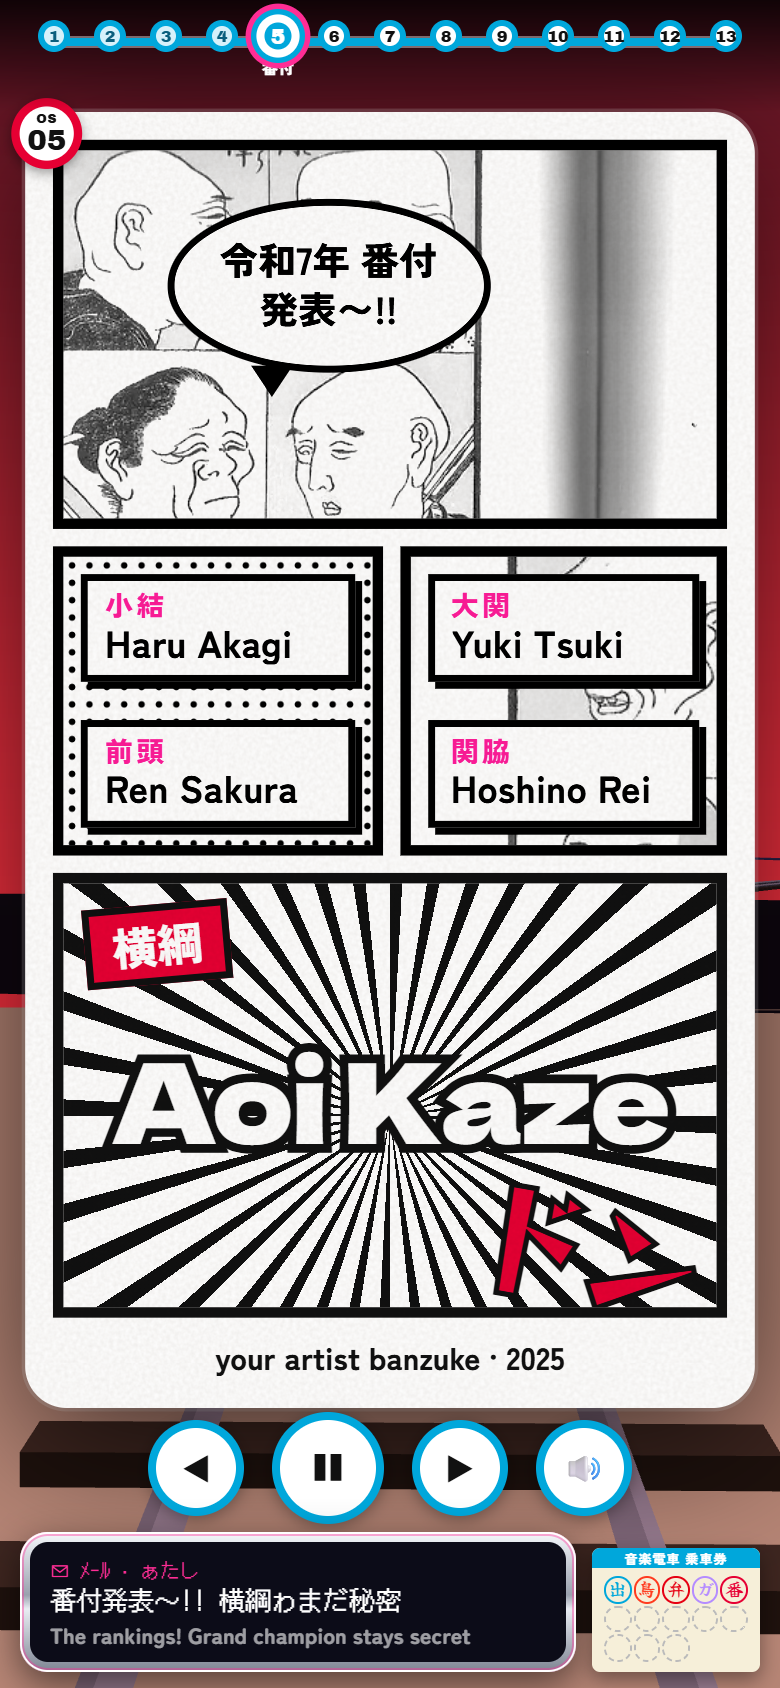
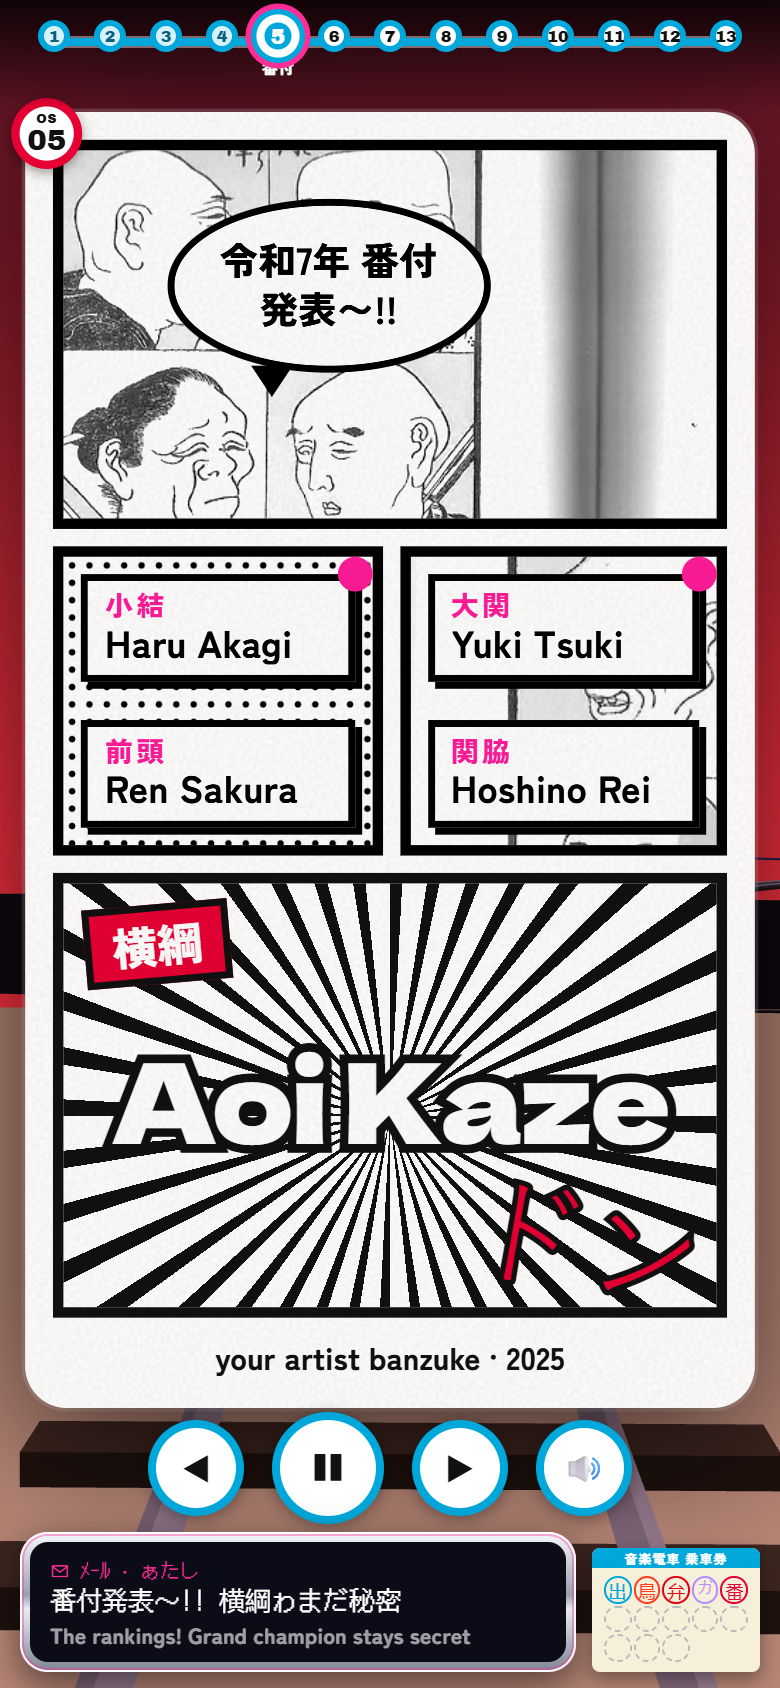
fix: polish from the touch review
- touch dots: Torii's number and Fuji's svg no longer hide theirs (off-card / inside an svg), Oshi's clears the card corner
- counted numbers keep a touch dot appended to them (setCount)
- scripts/probes/touch.js (sizes, controls overlap, dots, reduced motion) and songs.js; all 13 stations reshot

diff --git a/scripts/probes/touch.js b/scripts/probes/touch.js
@@ -1,0 +1,37 @@
+// Touch check for one station (?station=N): target sizes (>= 48 px both ways), no overlap with .controls, dots before the
+// first touch (all visible on the card), then a pointerdown/up on each target leaves the story where it was and removes the dots.
+// With ?reduced=1 it also lists any GSAP tween longer than 0 still running after the touch.
+(async () => {
+  const wait = (ms) => new Promise((r) => setTimeout(r, ms));
+  const stop = () => [...document.querySelectorAll('.routemap .stop')].findIndex((li) => li.classList.contains('current'));
+  for (let i = 0; i < 160 && !document.querySelector('[data-touch]'); i++) await wait(50);
+  for (let i = 0; i < 200 && !/reduced=1/.test(location.search) && !document.querySelector('.stage .ph.idle'); i++) await wait(50); // beats done: nothing is mid-grow (reduced has no beats; waiting there lets the ride advance)
+  await wait(/reduced=1/.test(location.search) ? 1500 : 300); // reduced: let the 0.3 s card fade finish first
+  const targets = [...document.querySelectorAll('[data-touch]')];
+  if (!targets.length) return { station: stop() + 1, targets: 0, pass: false, note: 'no [data-touch]' };
+  const hit = (a, b) => a.left < b.right && b.left < a.right && a.top < b.bottom && b.top < a.bottom;
+  const strip = document.querySelector('.controls')?.getBoundingClientRect();
+  const sizes = targets.map((t) => { const r = t.getBoundingClientRect(); return [t.className || t.tagName, Math.round(r.width), Math.round(r.height)]; });
+  const small = sizes.filter((s) => s[1] < 48 || s[2] < 48);
+  const overlapsControls = strip ? targets.filter((t) => hit(t.getBoundingClientRect(), strip)).length : 0;
+  const dotsBefore = document.querySelectorAll('.touch-dot').length;
+  const frame = document.querySelector('.frame').getBoundingClientRect();
+  const hidden = [...document.querySelectorAll('.touch-dot')].filter((d) => { const r = d.getBoundingClientRect(); return !r.width || (!d.closest('.dock') && (r.left < frame.left || r.right > frame.right || r.top < frame.top || r.bottom > frame.bottom)); }).length; // empty or off the card (the final ticket sits in the dock, outside it)
+  const before = stop();
+  for (const t of targets) {
+    const r = t.getBoundingClientRect();
+    const init = { bubbles: true, clientX: r.left + r.width / 2, clientY: r.top + r.height / 2, pointerId: 1, isPrimary: true };
+    t.dispatchEvent(new PointerEvent('pointerdown', init));
+    t.dispatchEvent(new PointerEvent('pointerup', init));
+  }
+  await wait(400);
+  const out = { station: before + 1, targets: sizes, small: small.length, overlapsControls, dotsBefore, hidden, dotsAfter: document.querySelectorAll('.touch-dot').length, moved: stop() !== before };
+  out.pass = !out.small && !overlapsControls && !hidden && dotsBefore >= targets.length && !out.dotsAfter && !out.moved;
+  if (/reduced=1/.test(location.search)) {
+    const url = performance.getEntriesByType('resource').map((e) => e.name).find((n) => /deps\/gsap\.js/.test(n));
+    const { gsap } = await import(url);
+    out.running = gsap.globalTimeline.getChildren(true, true, false).filter((c) => c.isActive() && c.duration() > 0).map((c) => [c.duration(), c.targets ? c.targets().map((t) => t.className || t.tagName) : 'timeline']);
+    out.pass = out.pass && !out.running.length;
+  }
+  return out;
+})()

diff --git a/src/journey/beats.ts b/src/journey/beats.ts
@@ -9,6 +9,8 @@ export function prefersReducedMotion(): boolean {
 }
 
 const countText = (el: HTMLElement, n: number) => `${fmt(n)}${el.dataset.suffix ?? ''}`;
+/** Write a counted number into the element's text node, so a touch dot appended to it survives. */
+export const setCount = (el: HTMLElement, text: string) => (el.firstChild?.nodeType === 3 ? void (el.firstChild.nodeValue = text) : void (el.textContent = text));
 
 /** data-path="x0,y0,x1,y1,…" as [x, y] pairs. */
 const path = (el: HTMLElement) => {
@@ -33,10 +35,10 @@ function enter(tl: gsap.core.Timeline, el: HTMLElement, at: number) {
   if (fx.includes('count')) {
     const target = Number(el.dataset.count);
     const o = { n: 0 };
-    el.textContent = countText(el, 0);
+    setCount(el, countText(el, 0));
     if (fx.includes('grow')) grow();
     else tl.fromTo(el, { opacity: 0 }, { opacity: 1, duration: 0.2 }, at);
-    tl.to(o, { n: target, duration: 1.2, ease: 'power2.out', onUpdate: () => void (el.textContent = countText(el, o.n)) }, at);
+    tl.to(o, { n: target, duration: 1.2, ease: 'power2.out', onUpdate: () => void setCount(el, countText(el, o.n)) }, at);
     return;
   }
   if (fx.includes('orbit')) {
@@ -83,7 +85,7 @@ export function playBeats(root: HTMLElement, opts: { reduced?: boolean } = {}): 
       for (const el of groups.get(n)!) {
         if (el.dataset.fx?.includes('flash')) tl.set(el, { opacity: 0 }, 0);
         else tl.set([el, ...(el.dataset.fx?.includes('type') ? el.children : [])], { opacity: 1 }, 0);
-        if (el.dataset.fx?.includes('count')) el.textContent = countText(el, Number(el.dataset.count));
+        if (el.dataset.fx?.includes('count')) setCount(el, countText(el, Number(el.dataset.count)));
         if (el.dataset.fx?.includes('orbit')) tl.set(el, { x: path(el).at(-1)![0], y: path(el).at(-1)![1] }, 0);
         if (el.dataset.fx?.includes('drain')) tl.set(el, { backgroundColor: 'rgba(0,0,0,0)', borderColor: '#141414' }, 0);
       }

diff --git a/scripts/probes/songs.js b/scripts/probes/songs.js
@@ -1,0 +1,28 @@
+// Oshi (?station=6&previews=silent): unlock sound, tap the cover, log every media element's play/pause/ended events, so
+// the gap between the tapped clip ending and the mix coming back (a 'playing' event) can be read off. Spec: <= 2 s.
+(async () => {
+  const t0 = performance.now();
+  const now = () => Math.round(performance.now() - t0);
+  const ev = [];
+  const id = new WeakMap();
+  const play = HTMLMediaElement.prototype.play;
+  HTMLMediaElement.prototype.play = function (...a) {
+    if (!id.has(this)) {
+      id.set(this, id.size);
+      for (const k of ['playing', 'pause', 'ended']) this.addEventListener(k, () => this.src.length > 200 && ev.push([now(), id.get(this), k]));
+    }
+    return play.apply(this, a);
+  };
+  while (!document.querySelector('.story')) await new Promise((r) => setTimeout(r, 50));
+  const story = document.querySelector('.story');
+  story.dispatchEvent(new MouseEvent('pointerdown', { bubbles: true, clientX: 10, clientY: 10 }));
+  await new Promise((r) => setTimeout(r, 300));
+  story.dispatchEvent(new MouseEvent('pointerup', { bubbles: true, clientX: 10, clientY: 10 }));
+  while (!document.querySelector('.stage .ph.idle [data-touch]')) await new Promise((r) => setTimeout(r, 50));
+  await new Promise((r) => setTimeout(r, 500));
+  const tap = now();
+  document.querySelector('[data-touch]').click();
+  let sticker;
+  for (let i = 0; i < 70; i++) { await new Promise((r) => setTimeout(r, 100)); if (sticker === undefined && document.querySelector('.now')) sticker = now() - tap; }
+  return { tap, stickerAfterMs: sticker, ev };
+})()

diff --git a/src/touch/act1.ts b/src/touch/act1.ts
@@ -1,5 +1,6 @@
 import { gsap } from 'gsap';
 import { fmt } from '../slides/fmt';
+import { setCount } from '../journey/beats';
 import type { TouchKit } from './kit';
 
 /** Torii: tap the days number to recount it from 0; the minutes band flips to hours and back. */
@@ -16,7 +17,7 @@ export function torii(el: HTMLElement, kit: TouchKit): void {
   hero.addEventListener('click', () => {
     const o = { v: 0 };
     tween?.kill();
-    tween = gsap.to(o, { v: days, duration: kit.dur(1.2), ease: 'power2.out', onUpdate: () => { hero.textContent = fmt(o.v); }, onComplete: () => { hero.textContent = fmt(days); } });
+    tween = gsap.to(o, { v: days, duration: kit.dur(1.2), ease: 'power2.out', onUpdate: () => { setCount(hero, fmt(o.v)); }, onComplete: () => { setCount(hero, fmt(days)); } });
     if (band && minutes !== undefined) {
       hours = !hours;
       band.innerHTML = hours ? `${fmt(Math.round(minutes / 60))} hours` : orig;

diff --git a/src/slides/worlds/i.css b/src/slides/worlds/i.css
@@ -34,3 +34,4 @@
 .fuji .marker { position: absolute; top: 104px; width: 0; height: 150px; border-left: 1.5px solid #141414; pointer-events: none; }
 .fuji .marker b { position: absolute; left: 0; top: -2px; transform: translate(-50%, -100%); white-space: nowrap; font: 800 9px/1.3 'Shippori Mincho', serif; background: #f3eee2; padding: 0 2px; text-align: center; }
 .fuji .marker b.r { transform: translate(-100%, -100%); }
+.fuji > .touch-dot { right: auto; left: 184px; top: 104px; } /* the drag target is the svg, which cannot hold the dot itself */

diff --git a/src/story/player.ts b/src/story/player.ts
@@ -222,7 +222,7 @@ export function createStory(
       buzz: (p) => haptics.buzz(p),
       mark(target) {
         target.setAttribute('data-touch', '');
-        target.insertAdjacentHTML('beforeend', '<i class="touch-dot" aria-hidden="true"></i>');
+        (target instanceof SVGElement ? target.parentElement! : target).insertAdjacentHTML('beforeend', '<i class="touch-dot" aria-hidden="true"></i>'); // an <i> inside an <svg> never renders
       },
       dur: (s) => (reduced ? 0 : s),
       onLeave: (fn) => void leaves.push(fn),

diff --git a/src/slides/worlds/q.css b/src/slides/worlds/q.css
@@ -22,3 +22,4 @@
 /* Touch: tap the cover and a magazine sticker says the #1 song is playing. */
 .idol .cover[data-touch] { cursor: pointer; }
 .idol .now { position: absolute; left: 12px; bottom: 70px; background: #fff200; color: #111; font: 12px/1 var(--face-num); padding: 5px 9px; transform: rotate(-3deg); box-shadow: 3px 3px 0 #ff2d95; pointer-events: none; }
+.idol .cover .touch-dot { top: 12px; right: 14px; } /* the cover is the whole card: keep the dot off its rounded corner */

diff --git a/src/slides/worlds/c.css b/src/slides/worlds/c.css
@@ -30,3 +30,4 @@
 
 /* Touch: the days number is tappable. */
 .tor .hero[data-touch] { cursor: pointer; }
+.tor .hero .touch-dot { right: auto; left: 190px; top: 8px; } /* the number bleeds off the card: keep the dot on it */
